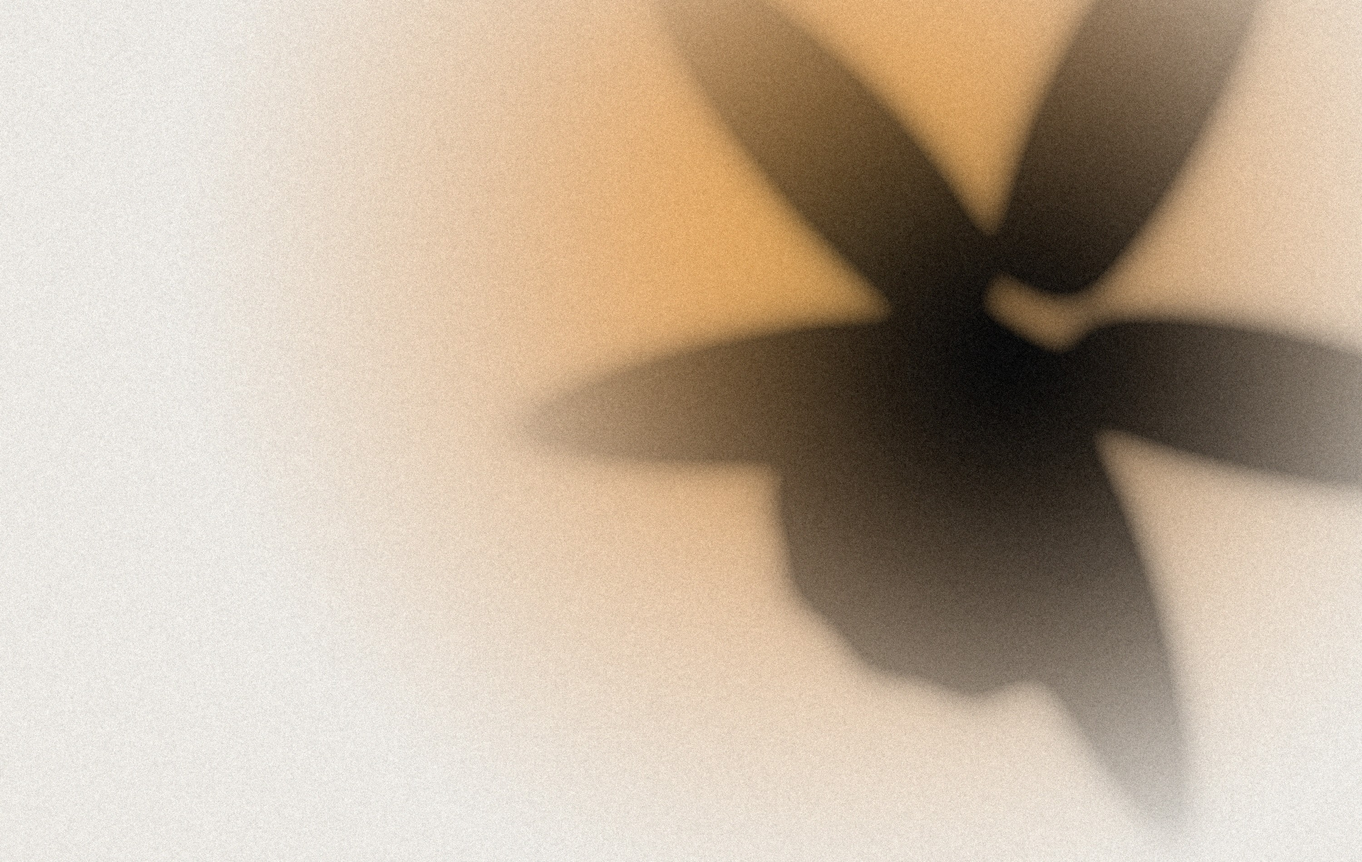
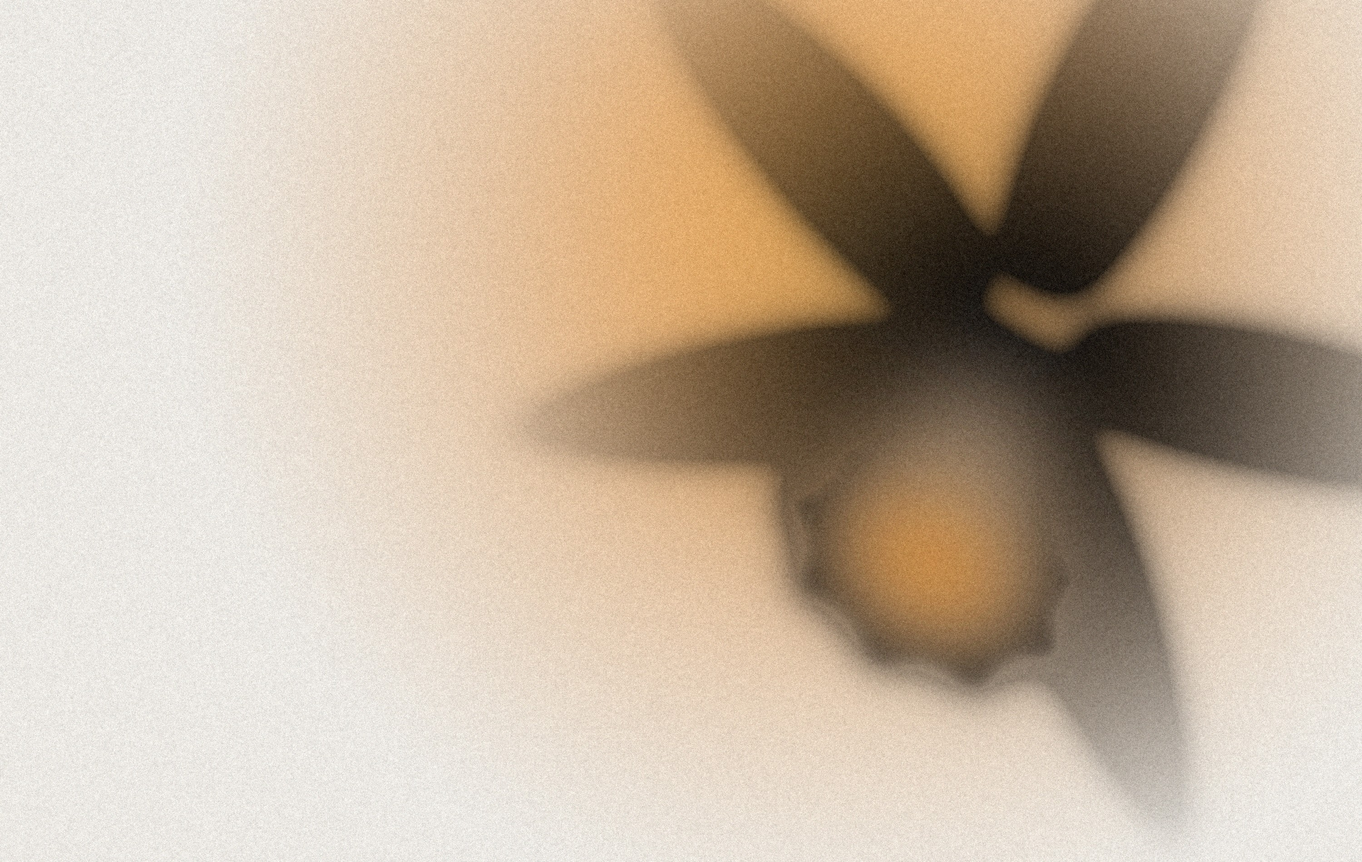
Soap Ebony: the lip drawn as a lit cup with an amber throat inside the black flower
Claude-Session: https://claude.ai/code/session_01Psd6wLDi15Gf4F1fXEFmxS

Changed region(s): [[0.589, 0.3726, 0.806, 0.8074]]

diff --git a/vanilla-shop/studies/soap/bloom-duo/ebony2.py b/vanilla-shop/studies/soap/bloom-duo/ebony2.py
@@ -20,7 +20,14 @@ def black_flower(cx,cy,R,rot,blur,fall=1.6):
     a=np.asarray(Image.open(n+'.png')).astype(np.float32); y,x=np.mgrid[0:a.shape[0],0:a.shape[1]].astype(np.float32)/K
     r=np.hypot(x-S/2,y-S/2)/R; f=np.clip(1-r**fall,0,1)                       # solid at the heart, gone by the tips
     al=np.clip(a[...,3]/255*1.3,0,1)*f
-    im=Image.fromarray(np.dstack([np.full(al.shape+(3,),9,np.float32),al*255]).astype(np.uint8),'RGBA').rotate(rot,resample=Image.BICUBIC)
+    # the lip (the cup) in a lighter, smoky charcoal so its frilled shape reads inside the black; the throat glows amber
+    def mk(sfx,s): m=Image.open(n+sfx).convert('L').filter(ImageFilter.GaussianBlur(s*K)); return np.asarray(m).astype(np.float32)/255
+    Lb=mk('-l.png',blur*0.35); Li=mk('-l.png',blur*1.6)**1.8; Tb=mk('-t.png',blur*0.9)
+    rgb=np.full(al.shape+(3,),9,np.float32)
+    rgb=rgb*(1-Li[...,None]*0.95)+np.array([176,150,124],np.float32)*Li[...,None]*0.95     # rim stays dark, the cup lightens inwards
+    rgb=rgb*(1-Tb[...,None]*0.9)+np.array([226,146,58],np.float32)*Tb[...,None]*0.9
+    al=np.maximum(al,Lb*0.92)
+    im=Image.fromarray(np.dstack([rgb,al*255]).clip(0,255).astype(np.uint8),'RGBA').rotate(rot,resample=Image.BICUBIC)
     return place(im,cx,cy)
 def amber_flower(cx,cy,R,rot):
     S=int(R*2.4); n=O+'L-eb2s'; bloom.bloom(n,S,S,S/2,S/2,R,'#B5651E','#F7DDB0','#E0913A',None,blur=2.3,grain=0)
